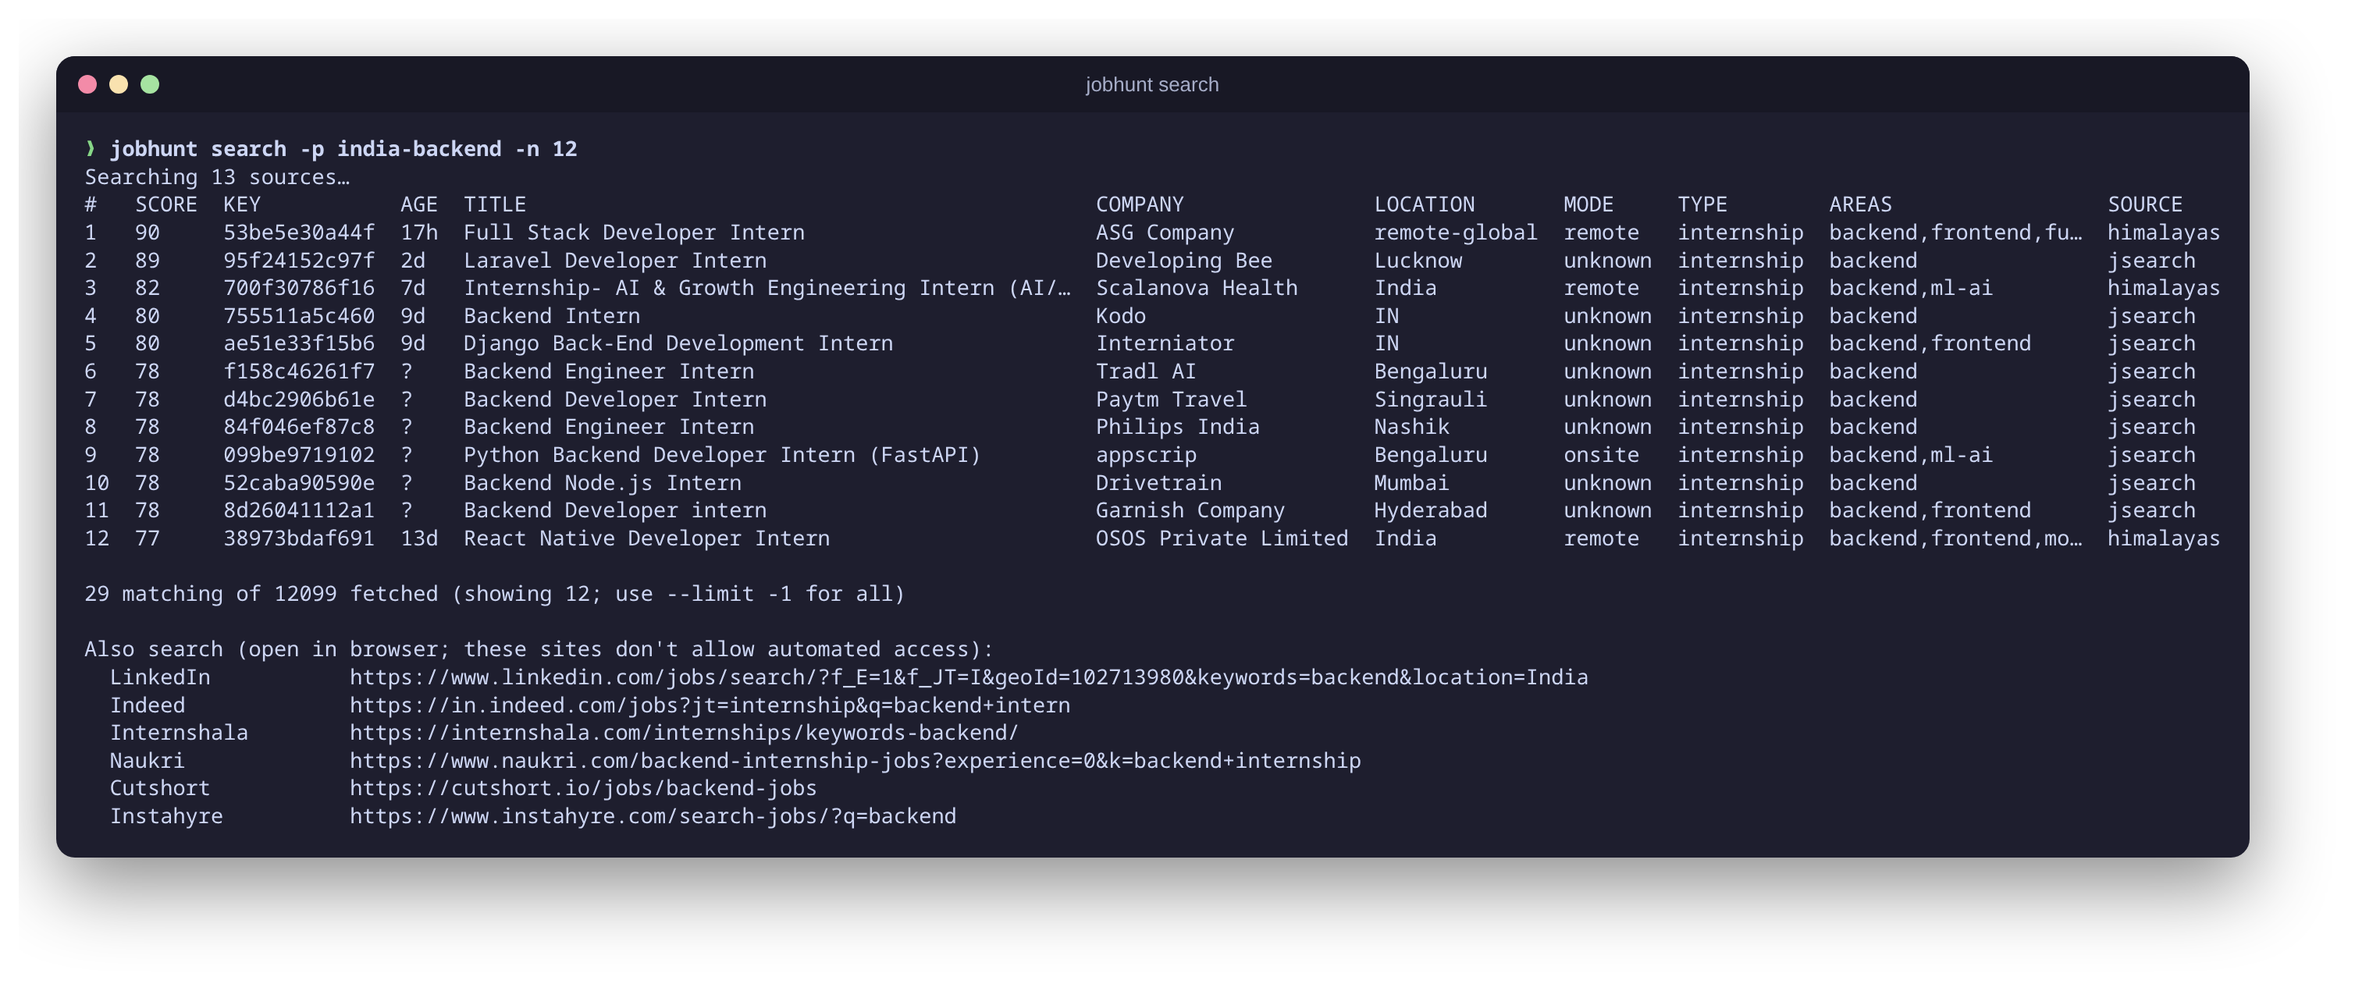
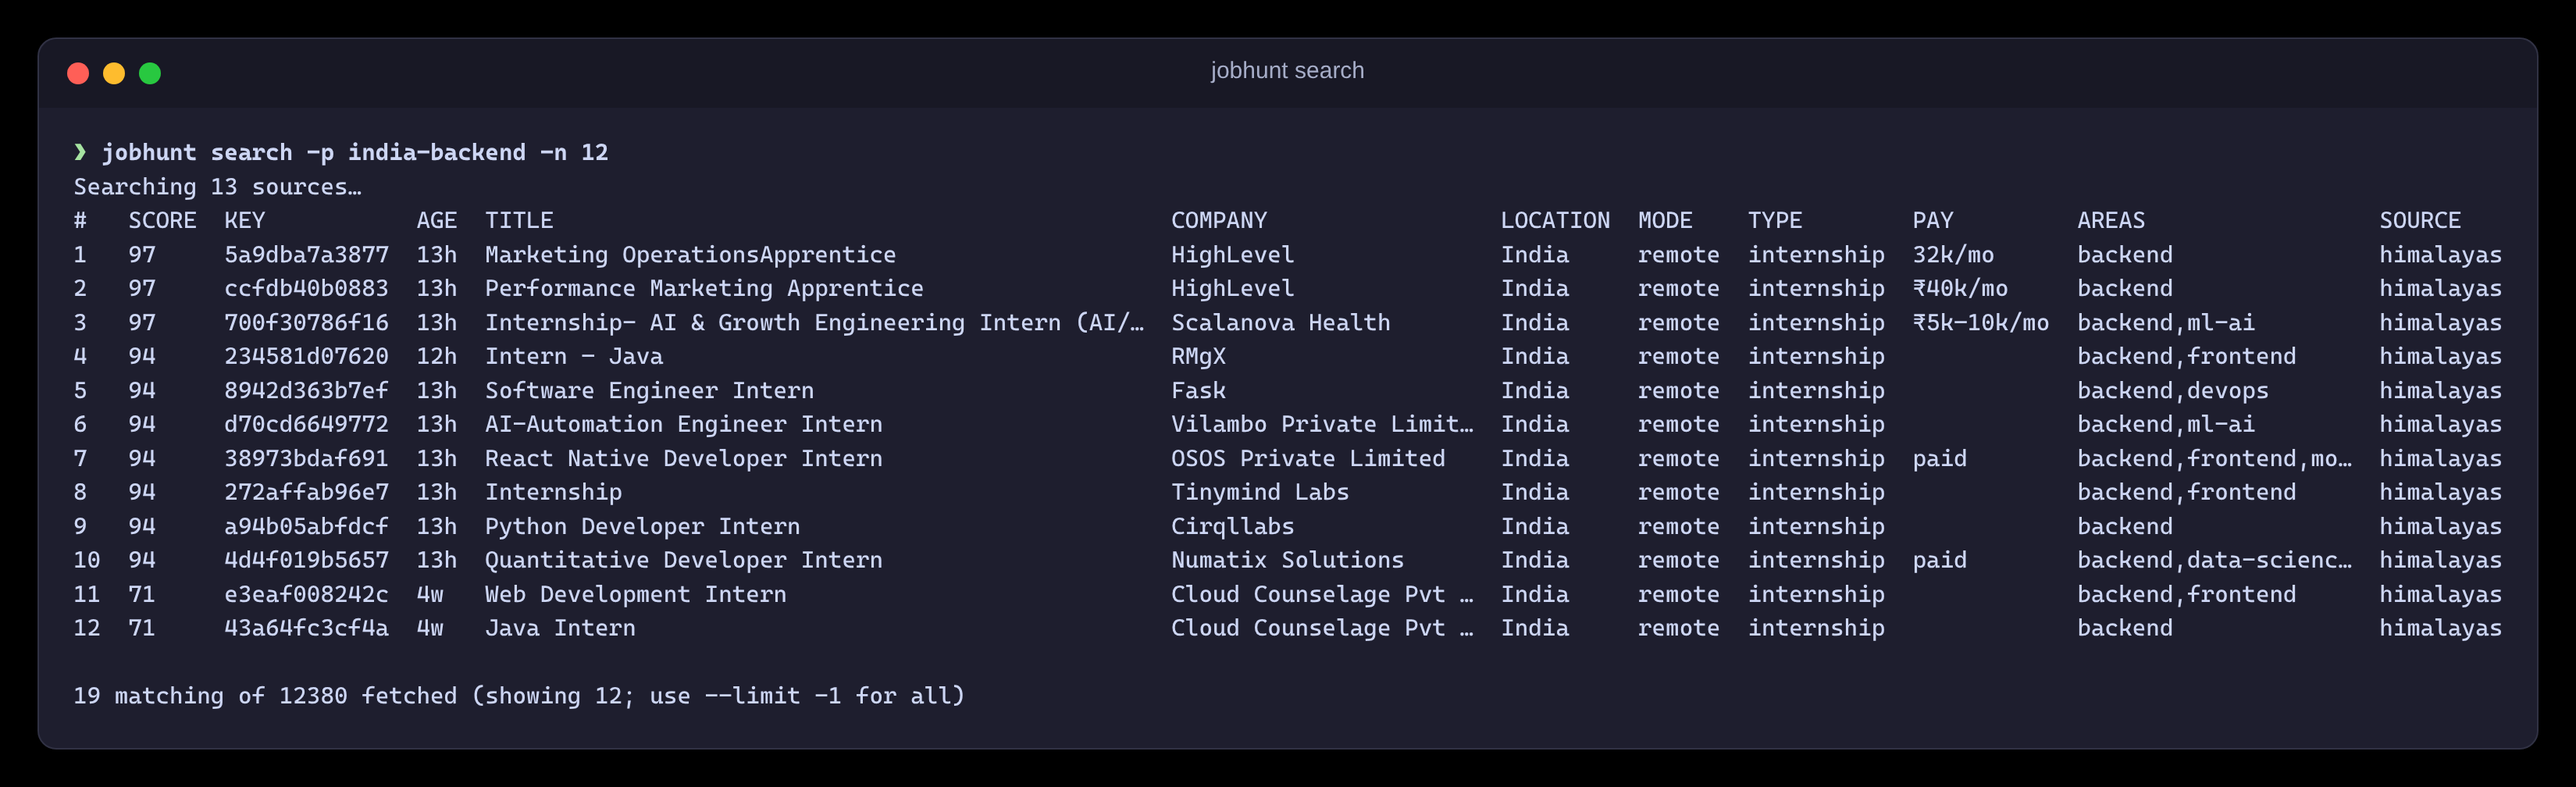
docs: document pay, add pay_period and paid to the feed schema, new screenshots
pay_period and paid are added within feed v1; salary_min and salary_max are per pay_period.

diff --git a/internal/feed/feed_test.go b/internal/feed/feed_test.go
@@ -38,12 +38,13 @@ func result() *search.Result {
 				Score: 91, New: true, FirstSeenAt: runAt, Description: "Go and Postgres",
 				ScoreParts: []model.ScorePart{{Factor: "match", Points: 35, Max: 35}, {Factor: "recency", Points: 20.4, Max: 25},
 					{Factor: "level", Points: 25, Max: 25}, {Factor: "fit", Points: 10, Max: 10}, {Factor: "info", Points: 0.6, Max: 5}},
-				JobType: model.TypeInternship, WorkMode: model.ModeRemote, Sources: []string{"greenhouse"}},
+				JobType: model.TypeInternship, WorkMode: model.ModeRemote, Sources: []string{"greenhouse"},
+				SalaryMin: new(15000.0), SalaryMax: new(20000.0), Currency: "INR", PayPeriod: model.PerMonth},
 			{ID: "remotive:2", Source: "remotive", Experience: model.ExpIntern, Key: "bbbb2222", Title: "SDE Intern", Company: "Beta", URL: "https://beta.example/2",
 				Score: 72, FirstSeenAt: older, Description: "line one\nline two",
 				JobType: model.TypeInternship, WorkMode: model.ModeOnsite, Sources: []string{"remotive"}},
 			{ID: "greenhouse:3", Source: "greenhouse", Experience: model.ExpUnknown, Key: "cccc3333", Title: "QA Intern", Company: "Gamma", URL: "https://gamma.example/3",
-				Score: 40, FirstSeenAt: runAt, JobType: model.TypeInternship, WorkMode: model.ModeUnknown},
+				Score: 40, FirstSeenAt: runAt, JobType: model.TypeInternship, WorkMode: model.ModeUnknown, Paid: new(false)},
 		},
 	}
 	res.Jobs[1].FirstSeenAt = older.In(ist) // the store returns local time; events must be UTC

diff --git a/README.md b/README.md
@@ -12,6 +12,7 @@ Use it from the terminal, a TUI, or a local web UI. It also keeps a list of star
 
 - **One search, every source.** Queries about 90 company job boards, remote boards, HN "Who is Hiring" and optional APIs concurrently.
 - **Less noise.** Classifies each job's type, level, work mode, CS area and visa support, then filters out what you didn't ask for.
+- **Pay and stipends.** Shows what a job pays when the posting says (`₹15k/mo`, `$40/hr`, `₹6L–8L/yr`), and flags unpaid internships; `--paid-only` drops them.
 - **No duplicates.** Merges the same posting found on different sources.
 - **Ranked results.** Scores every job 0–100 for how well it fits your search.
 - **New-job tracking.** Marks jobs you haven't seen before with ★; `--new-only` shows just those.
@@ -55,6 +56,7 @@ jobhunt serve --open                                            # web UI in your
 - **★**: you haven't seen this job in an earlier search.
 - **SCORE**: 0–100 fit for this search ([how it's scored](#scoring)).
 - **KEY**: stable job ID for `tracker`, `hide` and `unhide`.
+- **PAY**: the pay the posting states, per year, month, week, day or hour; `unpaid` or `paid` when it says so without an amount; blank when it doesn't say.
 - **Sources** (below the table): what each source did: `ok`, `cached`, `skipped` or `error`. A failing source falls back to its last cached results.
 - **Also search**: links to sites jobhunt can't query, pre-filled with your filters.
 
@@ -118,7 +120,8 @@ Available on `search`, `tui`, `export`, `watch` and `preset save`.
 | `-k, --keywords` / `-x, --exclude` | include jobs mentioning any / drop jobs mentioning any |
 | `--posted-within` | `24h 3d 7d 30d` |
 | `--visa` | only jobs that mention visa sponsorship |
-| `--min-salary N --currency INR` | minimum advertised annual salary |
+| `--paid-only` | drop jobs and internships that say they're unpaid |
+| `--min-salary N --currency INR` | minimum advertised annual salary; monthly or hourly pay isn't converted, so it counts as unknown |
 | `-p, --preset` | start from a saved preset |
 | `--profile` | fill what flags and the preset leave empty from your [profile](#profile-and-digest) |
 | `--company-stage` / `--company-headcount` | only jobs at [listed companies](#companies) at these stages or sizes |
@@ -180,6 +183,7 @@ profile:
   min_score: 50                          # the digest leaves out lower scores
   skip_requires_experience: true         # drop postings that ask for prior work or internships
   skip_onsite_abroad: true               # drop onsite and hybrid roles outside your countries
+  skip_unpaid: true                      # drop postings that say they're unpaid
   companies:                             # which companies are worth your time
     stages: [seed, series-a]
     headcounts: [1-10, 11-50, 51-200]
@@ -344,7 +348,7 @@ Results are cached in SQLite per source, already cleaned and classified, so a re
 | Recency | 25 | posted just now; halves every 7 days |
 | Level | 25 | internship, new-grad or entry-level |
 | Fit | 10 | your exact country and mode (worldwide remote scores 70%) |
-| Info | 5 | salary and/or visa sponsorship stated |
+| Info | 5 | a pay amount and/or visa sponsorship stated |
 
 Weights are configurable under `ranking:`. Each job in `jobhunt feed` and the local API carries `score_parts`, the points it got for each component.
 

diff --git a/AGENTS.md b/AGENTS.md
@@ -96,6 +96,7 @@ internal/mcpserver/ `jobhunt mcp`: tools for agents (docs/examples/mcp.json)
   - `Timeouter`, `CacheKeyer`.
   - Return `*sources.PartialError` when some pages failed but some jobs came back.
 - Unknown values stay `unknown`; don't guess. Filters drop unknowns unless `--include-unknown`.
+- Pay: `SalaryMin`/`SalaryMax` are per `PayPeriod` (empty means a year). Sources keep every period they're given; `Paid` is false only when a posting says it's unpaid. Show pay with `Job.Pay()` (and `pay()` in `internal/web/static/js/format.js`, which must match it).
 - Country semantics: `--country IN` also matches worldwide-remote and region codes containing IN (`model.CountryAllows`) unless `StrictCountry`. ATS boards with `remote: true` are fetched for any non-strict search.
 - Errors are wrapped with `%w`. Every I/O call takes a `context.Context`. A failing source must never fail the search.
 - Use table-driven tests. Prefer the standard library (`slices`, `maps`, `min`/`max`, `strings.Cut`, `b.Loop`).
@@ -109,4 +110,4 @@ internal/mcpserver/ `jobhunt mcp`: tools for agents (docs/examples/mcp.json)
 - **Remotive** has `MinTTL` of 6h, required by its terms. Its public API returns only about 10 jobs.
 - **JSearch keys:** `ak_…` is an OpenWeb Ninja key and goes to `api.openwebninja.com` with `x-api-key`. Anything else goes through RapidAPI. Each country is one request.
 - **ATS slugs go stale** when companies switch ATS. Use `jobhunt sources --check-boards`.
-- The classifier runs once per fetched job (results are cached with a version from `keywords.yaml` and `classify.logicVersion`; bump `logicVersion` when `Classify` decides differently for the same rules). Real descriptions are several KB, and a refresh classifies about 15k jobs. Keep it token-based (no per-job regex loops). The two "N years" regexes run only on `yearSnippets`, never on a whole description. `BenchmarkClassify`, `BenchmarkClassifyExperience` (a long posting) and `BenchmarkSearch` (a whole search, cached and fresh) guard this.
+- The classifier runs once per fetched job (results are cached with a version from `keywords.yaml` and `classify.logicVersion`; bump `logicVersion` when `Classify` decides differently for the same rules). Real descriptions are several KB, and a refresh classifies about 15k jobs. Keep it token-based (no per-job regex loops). The two "N years" regexes run only on `yearSnippets`, never on a whole description, and the pay regexes (`classify/pay.go`) only on short windows that start at a currency sign or an `amount_hints` word with a pay word before it. `BenchmarkClassify`, `BenchmarkClassifyExperience` (a long posting) and `BenchmarkSearch` (a whole search, cached and fresh) guard this.

diff --git a/docs/api.md b/docs/api.md
@@ -50,6 +50,7 @@ Searches and presets use the same filter object as the CLI flags. Empty fields t
   "exclude": ["senior"],
   "posted_within": "7d",
   "visa": false,
+  "paid_only": false,
   "min_salary": 0,
   "currency": "INR",
   "strict_country": false,
@@ -58,6 +59,8 @@ Searches and presets use the same filter object as the CLI flags. Empty fields t
   "company_headcounts": ["1-10", "11-50"]
 }
 ```
+
+`paid_only` drops jobs that say they're unpaid. `min_salary` is a yearly amount in `currency`; jobs whose pay is monthly or hourly count as unknown for it.
 
 `company_stages` and `company_headcounts` keep only jobs at companies on your companies list (`jobhunt companies`) with those funding stages or sizes; jobs at other companies are dropped. `GET /api/meta` lists the allowed values.
 
